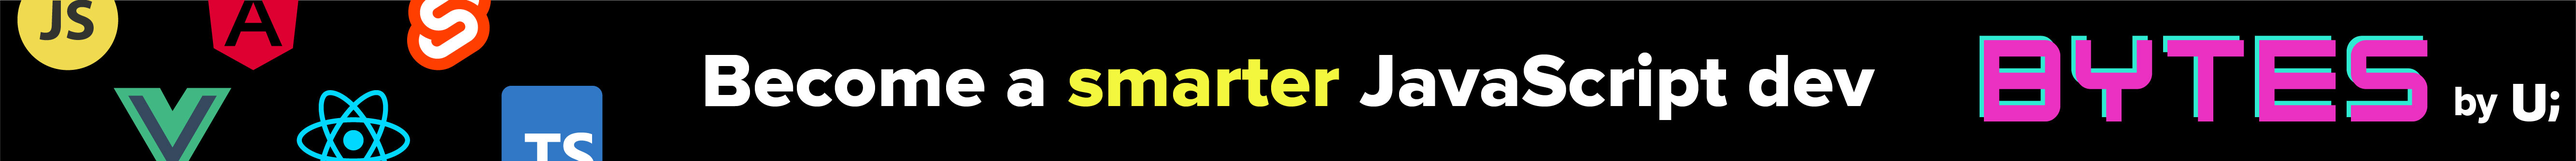
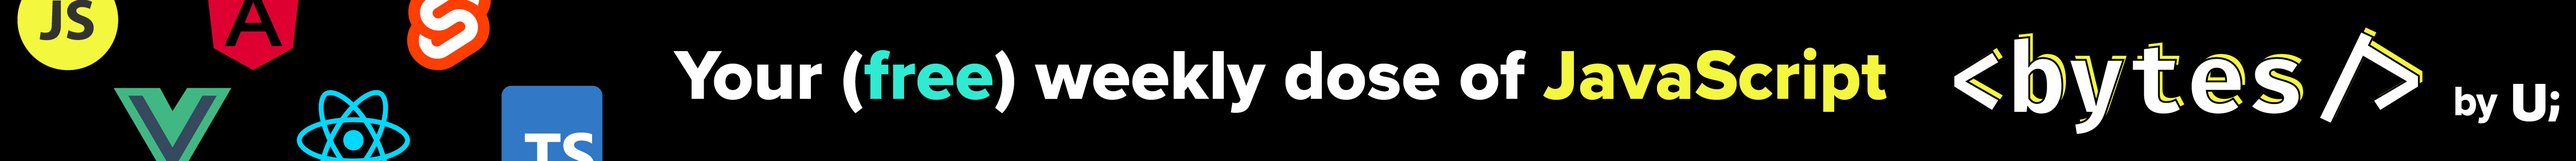
chore: update sponsor assets

Changed region(s): [[0.249, 0.1796, 0.9648, 0.8084], [0.0, 0.0, 0.0622, 0.4491], [0.9959, 0.0, 1.0, 0.0299]]

diff --git a/README.md b/README.md
@@ -43,7 +43,11 @@ It might or might not be a joke taken too seriously.
 
 ## Sponsor
 
-(removed as project has been archived)
+**Want to help support my open-source experiments and learn some cool JavaScript tricks at the same time?**
+
+Click the banner below and sign up to **Bytes**, the only newsletter cool enough to be recommended by eDEX-UI.
+
+[![Bytes by UI.dev](media/sponsor-uidev-bytes.jpg)](https://ui.dev/bytes/?r=gabriel)
 
 ## Features
 - Fully featured terminal emulator with tabs, colors, mouse events, and support for `curses` and `curses`-like applications.
